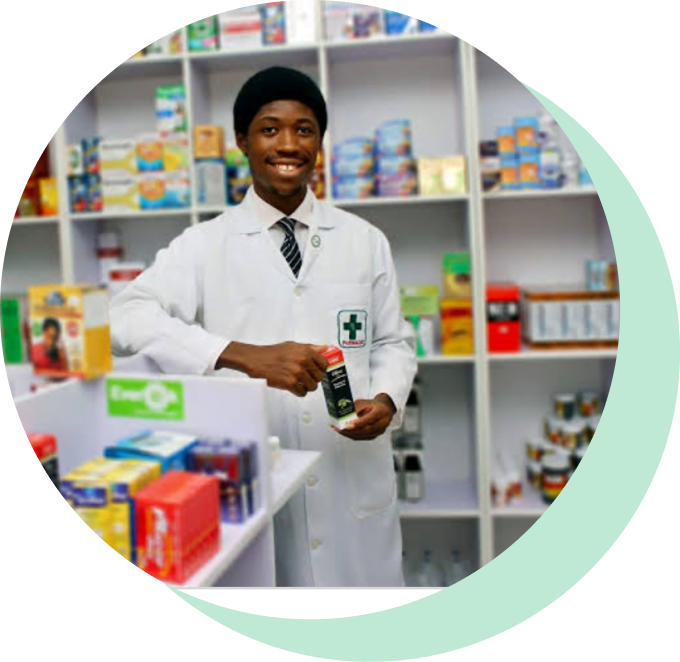
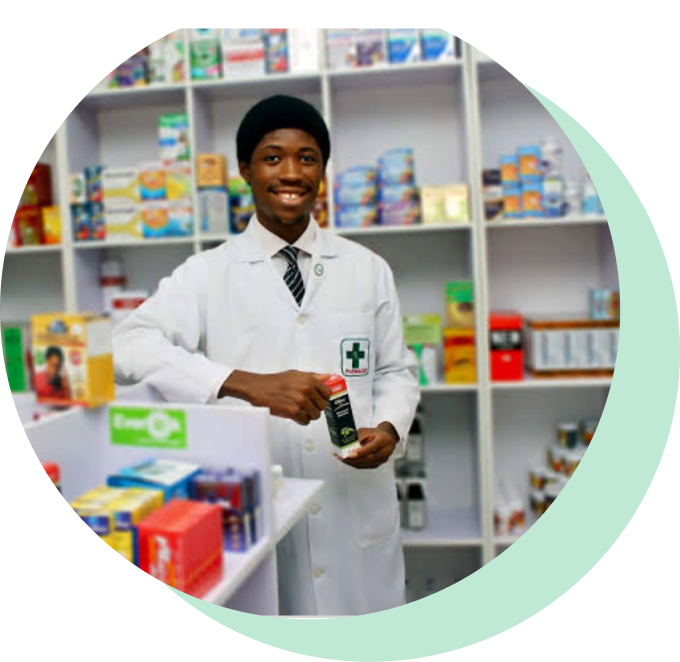
fix vision image

diff --git a/src/styles/about/MissionVision.css b/src/styles/about/MissionVision.css
@@ -33,6 +33,7 @@
 }
 .mission-image img{
     max-width: 520px;
+    border-radius: 100%;
 }
 .mission-context{
     max-width: 537px;
@@ -58,6 +59,7 @@ line-height: 35px;
 }
 .vision-image img{
     max-width: 520px;
+    border-radius: 100%;
 }
 .vision-context{
     max-width: 597px;
